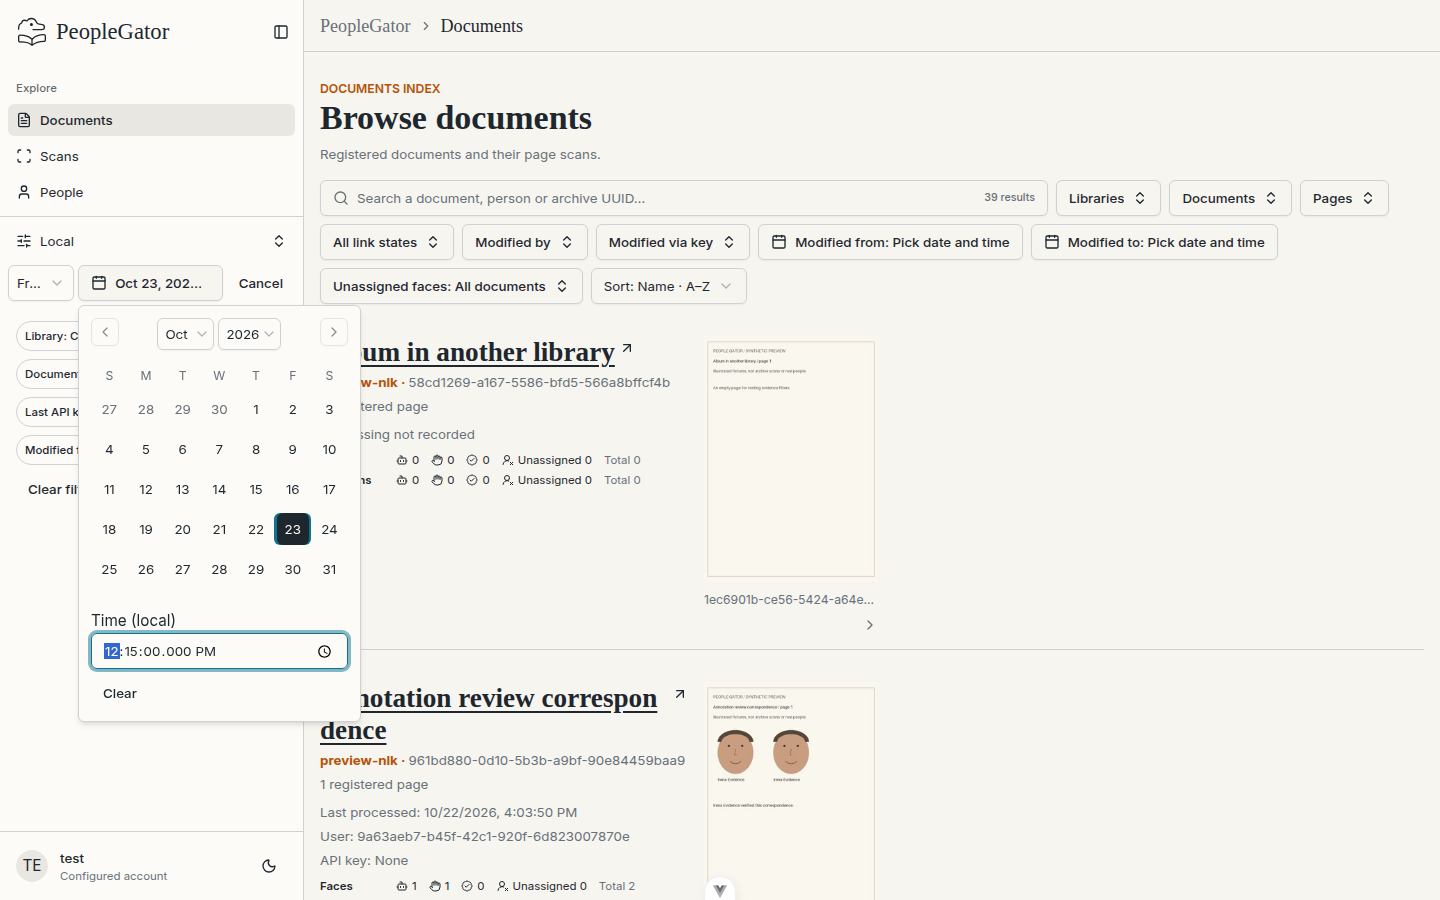
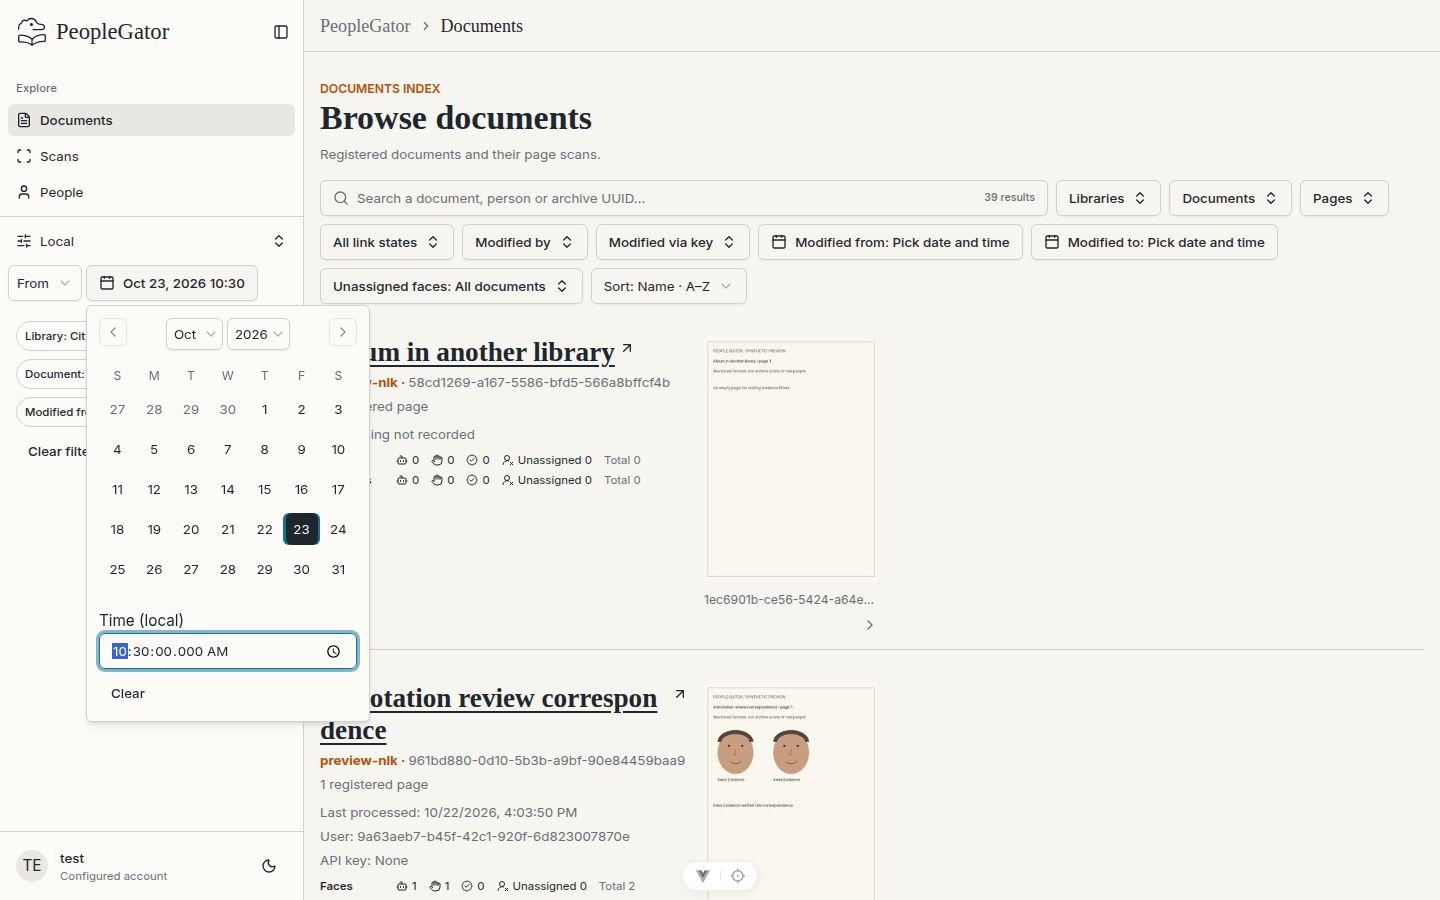
Name the add-filter action and dismiss selection with Escape

diff --git a/people-gator-app/src/components/custom/WorkspaceFilterBuilder.vue b/people-gator-app/src/components/custom/WorkspaceFilterBuilder.vue
@@ -95,11 +95,10 @@ async function afterTypeClose(event: Event) {
       v-if="!adding"
       ref="addButton"
       variant="outline"
-      size="icon"
       aria-label="Add filter"
       @click="start"
     >
-      <Plus aria-hidden="true" />
+      <Plus aria-hidden="true" /> Add filter
     </Button>
     <div
       v-else
@@ -107,6 +106,7 @@ async function afterTypeClose(event: Event) {
       class="flex w-full min-w-0 items-center gap-1"
       role="group"
       aria-label="New filter"
+      @keydown.esc.stop.prevent="close()"
     >
       <Select v-model="filterType" v-model:open="typeOpen" @update:model-value="selectType">
         <SelectTrigger
@@ -127,7 +127,7 @@ async function afterTypeClose(event: Event) {
             }}</span>
           </SelectValue>
         </SelectTrigger>
-        <SelectContent @close-auto-focus="afterTypeClose">
+        <SelectContent @close-auto-focus="afterTypeClose" @escape-key-down.prevent="close()">
           <SelectItem
             v-for="field in fields"
             :key="field.key"
@@ -160,6 +160,7 @@ async function afterTypeClose(event: Event) {
         @update:model-value="apply"
         @open-change="valueOpenChange"
         @interact-outside="outsideValue"
+        @escape="close()"
         :options="
           field.options.filter((option) =>
             option.label.toLowerCase().includes(search.toLowerCase()),
@@ -178,9 +179,9 @@ async function afterTypeClose(event: Event) {
         @update:model-value="apply"
         @open-change="valueOpenChange"
         @interact-outside="outsideValue"
+        @escape="close()"
         class="min-w-0 max-w-full shrink"
       />
-      <Button variant="ghost" size="sm" aria-label="Cancel filter" @click="close()">Cancel</Button>
     </div>
   </div>
 </template>

diff --git a/people-gator-api/docs/PREVIEW-SEEDING.md b/people-gator-api/docs/PREVIEW-SEEDING.md
@@ -36,16 +36,16 @@ new detection keys.
 
 This draft adds a frontend-only visual demo around the existing seeded screens.
 Open Documents, then use the **Global/Local** selector below the sidebar
-navigation to choose **Local**. Use **+** to turn it into an inline filter row
+navigation to choose **Local**. Use **+ Add filter** to turn it into an inline filter row
 and open the type dropdown immediately. The value control is disabled until a
 type is chosen. Choosing a type immediately opens its searchable multi-select or
 date/time picker. Values are applied to the configuration as they are clicked;
 toggling a selected value removes it immediately. Date and time changes apply
 immediately too. The picker stays open for additional values or time edits,
 without Done, Enter or a checkmark being required. Reopening a type restores its
-selected values. The labelled **Cancel** closes the selector and preserves
-values already applied; tags remove applied values individually. Clicking away
-or dismissing the picker also returns to **+**. Clicking the type control allows
+selected values. Press **Escape** to close the selector and preserve values
+already applied; tags remove applied values individually. Clicking away
+or dismissing the picker also returns to **+ Add filter**. Clicking the type control allows
 selecting another type without resetting existing filters. Try Library,
 Document, Page, Last user, Last API key and modification dates. Add filters one
 by one, remove individual tags or clear them, switch Global/Local, and navigate

diff --git a/docs/evidence/issue60/README.md b/docs/evidence/issue60/README.md
@@ -15,3 +15,11 @@ collapse; mobile drawer navigation and Escape dismissal; no horizontal overflow
 or uncaught JavaScript errors. Sidebar examples are in-memory samples and do not
 filter the underlying results. The account footer identifies the configured login,
 not a new profile/authentication integration.
+
+Latest filter-selector revision: **+ Add filter** names the opening action.
+Escape dismisses the type, value or date selector and returns focus to the button,
+without removing applied values or closing the mobile sidebar. There is no Cancel
+button. `add-filter-*`, `filter-type-*`, `value-filter-*`, `date-filter-*`,
+`local-*` and `local-dark-*` show this revision at the dimensions above.
+These captures use the local frontend and the synthetic PR #70 preview API;
+Chromium web security was disabled for this cross-origin browser check.
